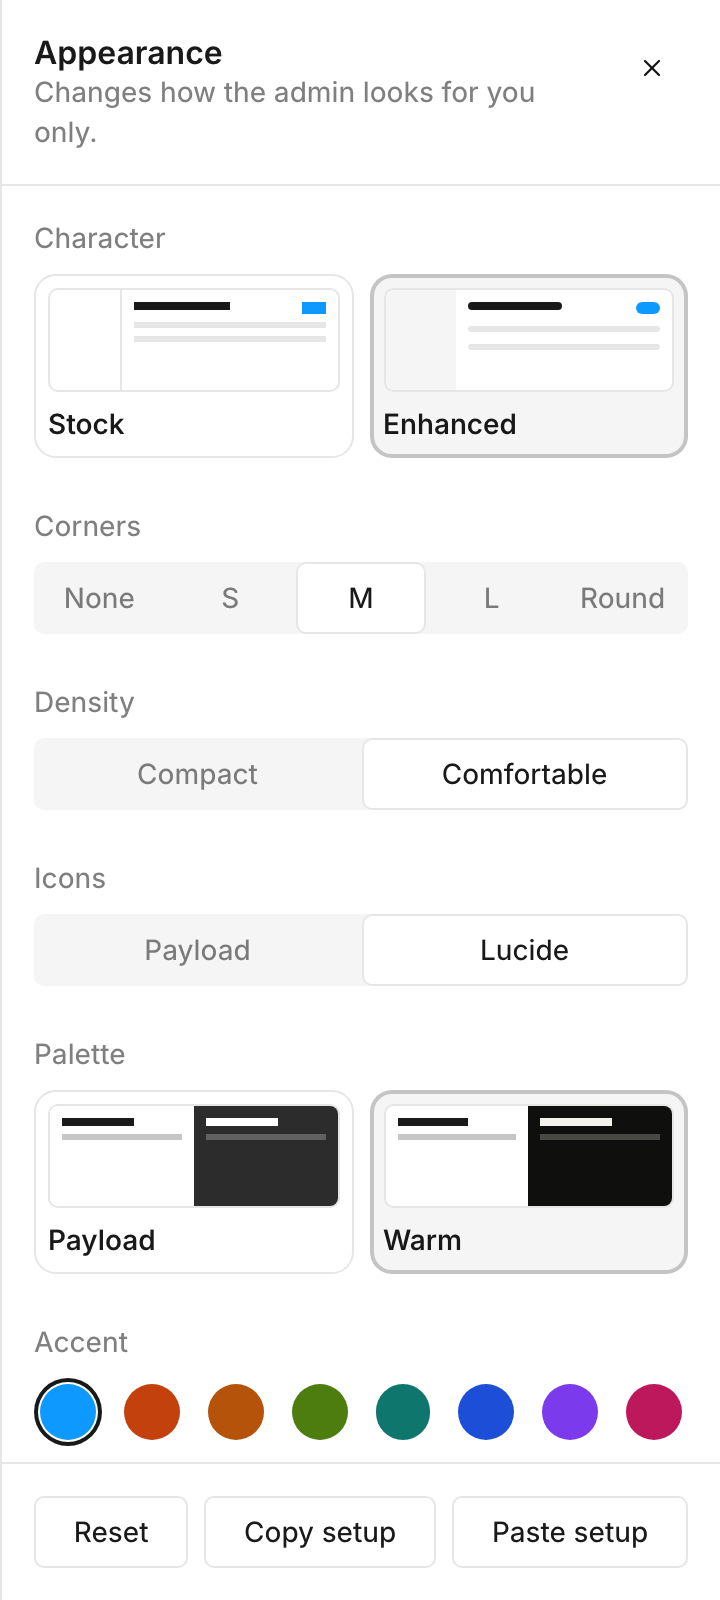
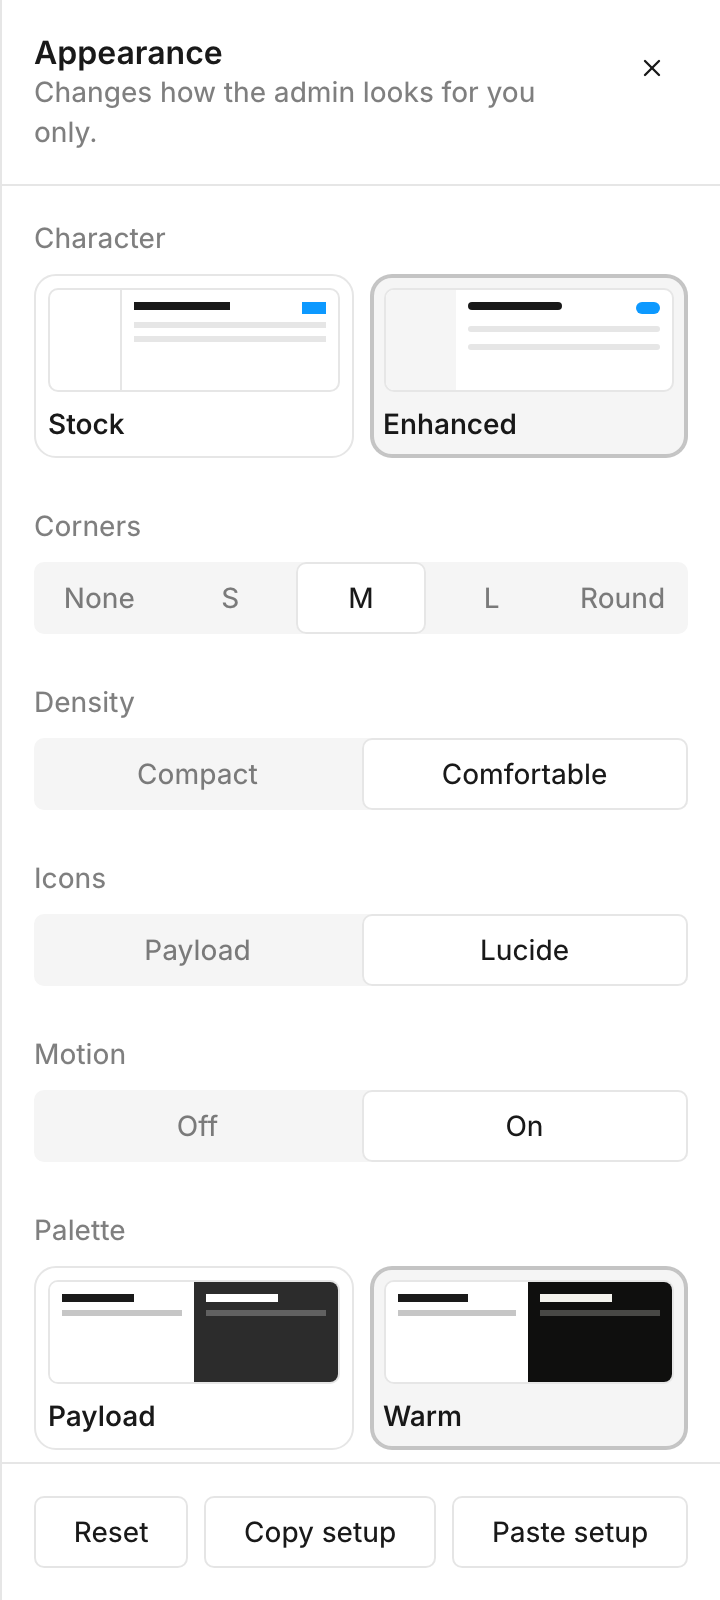
feat: add a motion option to Enhanced

Changed region(s): [[0.0306, 0.6562, 0.9778, 0.9062]]

diff --git a/apps/demo/tests/theme.e2e.spec.ts b/apps/demo/tests/theme.e2e.spec.ts
@@ -43,7 +43,7 @@ const backgrounds = (page: Page) =>
 test.describe('Logged out', () => {
   test.use({ storageState: { cookies: [], origins: [] } })
 
-  test('defaults to Enhanced and Warm with medium radius, comfortable density and Lucide icons', async ({ page }) => {
+  test('defaults to Enhanced and Warm with medium radius, comfortable density, Lucide icons and motion', async ({ page }) => {
     await page.context().addCookies([cookie('theme', 'dark')])
     await page.goto('/admin/login')
 
@@ -51,6 +51,7 @@ test.describe('Logged out', () => {
     await expect(page.locator('html')).toHaveAttribute('data-radius', 'md')
     await expect(page.locator('html')).toHaveAttribute('data-density', 'comfortable')
     await expect(page.locator('html')).toHaveAttribute('data-icons', 'lucide')
+    await expect(page.locator('html')).toHaveAttribute('data-motion', 'on')
     await expect(page.locator('html')).toHaveAttribute('data-palette', 'warm')
     await expect(page.locator('html')).toHaveCSS('background-color', 'rgb(15, 15, 14)')
   })
@@ -97,7 +98,7 @@ test.describe('Theme plugin', () => {
 
     await page.goto('/admin')
     await expect(page.locator('html')).toHaveAttribute('data-character', 'stock')
-    for (const option of ['radius', 'density', 'icons']) {
+    for (const option of ['radius', 'density', 'icons', 'motion']) {
       await expect(page.locator('html')).not.toHaveAttribute(`data-${option}`)
     }
   })
@@ -541,6 +542,61 @@ test.describe('Radius', () => {
 
     await expect(page.locator(button).first()).toHaveCSS('border-radius', '9999px')
     await expect(page.locator(field).first()).toHaveCSS('border-radius', '8px')
+  })
+})
+
+test.describe('Motion', () => {
+  const recordTransitions = async (page: Page, selector: string) => {
+    await page.addInitScript((watched) => {
+      const runs: string[] = []
+      Object.assign(window, { transitionRuns: runs })
+      document.addEventListener('transitionrun', (event) => {
+        const target = event.target as Element
+        if (target.matches(watched)) {
+          runs.push(`${target.classList[0]} ${event.propertyName}`)
+        }
+      })
+    }, selector)
+    return () => page.evaluate(() => (window as unknown as { transitionRuns: string[] }).transitionRuns.slice().sort())
+  }
+
+  const openDrawer = async (page: Page) => {
+    const transitions = await recordTransitions(page, '.drawer__blur-bg, .drawer__content')
+    await openShowcase(page)
+    await page.locator('.relationship-add-new__add-button').click()
+    await page.locator('.drawer--is-open .drawer__content').waitFor()
+    return transitions
+  }
+
+  test('drawers fade and slide in', async ({ page }) => {
+    const transitions = await openDrawer(page)
+
+    await expect.poll(transitions).toEqual(['drawer__blur-bg opacity', 'drawer__content opacity', 'drawer__content translate'])
+  })
+
+  for (const [name, setup] of [
+    ['motion is off', (page: Page) => page.context().addCookies([appearance({ options: { enhanced: { motion: 'off' } } })])],
+    ['the OS reduces motion', (page: Page) => page.emulateMedia({ reducedMotion: 'reduce' })]
+  ] as const) {
+    test(`drawers open at once when ${name}`, async ({ page }) => {
+      await setup(page)
+      const transitions = await openDrawer(page)
+
+      await expect(page.locator('.drawer__blur-bg')).toHaveCSS('transition-duration', '0s')
+      await expect(page.locator('.drawer__content')).toHaveCSS('transition-property', 'transform')
+      expect(await transitions()).toEqual([])
+    })
+  }
+
+  test('tooltips fade in and out', async ({ page }) => {
+    const transitions = await recordTransitions(page, '.tooltip')
+    await page.goto('/admin')
+
+    await page.getByRole('button', { name: 'Hide sidebar' }).hover()
+    await expect.poll(transitions).toEqual(['tooltip opacity'])
+
+    await page.mouse.move(700, 700)
+    await expect.poll(transitions).toEqual(['tooltip opacity', 'tooltip opacity', 'tooltip visibility'])
   })
 })
 

diff --git a/packages/theme/test/contract.test.ts b/packages/theme/test/contract.test.ts
@@ -31,6 +31,7 @@ const scopes: Record<string, string> = {
   'options/accent.css': 'html[data-accent]',
   'options/density.css': "html[data-density='comfortable']",
   'options/icons.css': "html[data-icons='lucide']",
+  'options/motion.css': "html[data-motion='on']",
   'options/radius.css': 'html[data-radius]',
   'palettes/warm.css': "html[data-palette='warm']",
   'styles/appearance-panel.css': '.payloadpack-appearance-panel',
@@ -156,6 +157,7 @@ const hardCodedByPayload = [
     declaration: '.popup-button { height: var(--spacer-4, 1.5rem); }'
   },
   { file: 'css/theme.css', selector: ':root', declaration: '--popup-radius: var(--radius-large);' },
+  { file: 'elements/Drawer/index.css', selector: '.drawer__content', declaration: 'transition: transform 100ms ease-out;' },
   { file: 'elements/Dialog/index.css', selector: '.dialog--small', declaration: '--dialog-width: 280px;' },
   {
     file: 'elements/Dialog/index.css',
@@ -487,9 +489,7 @@ describe('theme contract with Payload', () => {
 
   it.each(hardCodedByPayload)('Payload still hard-codes $selector ($declaration)', ({ declaration, file, selector }) => {
     const css = read(path.join(uiDist, file))
-    expect(ruleBody(css, selector), `${selector} changed upstream, re-check its fix in comfortable.css`).toContain(
-      squash(declaration)
-    )
+    expect(ruleBody(css, selector), `${selector} changed upstream, re-check its fix`).toContain(squash(declaration))
   })
 
   it('Payload still hard-codes the fixed-toolbar editor padding', () => {

diff --git a/packages/theme/src/options/motion.css b/packages/theme/src/options/motion.css
@@ -1,0 +1,62 @@
+@layer payload {
+  html[data-motion='on'] {
+    @media (prefers-reduced-motion: no-preference) {
+      /* 1. Drawers */
+      .drawer__blur-bg {
+        transition: opacity 200ms linear;
+
+        @starting-style {
+          opacity: 0;
+        }
+      }
+
+      .drawer__content {
+        transition:
+          transform 100ms ease-out,
+          opacity 200ms linear,
+          translate 200ms linear;
+
+        @starting-style {
+          opacity: 0;
+          translate: 5rem 0;
+        }
+      }
+
+      /* 2. Tooltips */
+      .tooltip {
+        transition:
+          opacity 0.2s ease-in-out,
+          visibility 0.2s ease-in-out;
+      }
+
+      .tooltip--show {
+        @starting-style {
+          opacity: 0;
+        }
+      }
+
+      /* 3. Fields */
+      .form-input,
+      .form-input-group,
+      .react-select .rs__control {
+        transition-property: border, box-shadow, background-color;
+        transition-duration: 100ms, 100ms, 500ms;
+        transition-timing-function: cubic-bezier(0, 0.2, 0.2, 1);
+      }
+
+      /* 4. Buttons */
+      .btn {
+        transition-property: border, color, background;
+        transition-duration: 100ms;
+        transition-timing-function: cubic-bezier(0, 0.2, 0.2, 1);
+      }
+
+      /* 5. Cards */
+      .card {
+        transition-property: border, box-shadow, background;
+        transition-duration: 100ms;
+        transition-timing-function: cubic-bezier(0, 0.2, 0.2, 1);
+      }
+    }
+  }
+}

diff --git a/packages/theme/src/characters/index.ts b/packages/theme/src/characters/index.ts
@@ -3,7 +3,8 @@ import { enhanced } from './enhanced/index.js'
 export const options = {
   radius: ['none', 'sm', 'md', 'lg', 'full'],
   density: ['compact', 'comfortable'],
-  icons: ['payload', 'lucide']
+  icons: ['payload', 'lucide'],
+  motion: ['off', 'on']
 } as const
 
 export type Option = keyof typeof options

diff --git a/packages/theme/src/translations.ts b/packages/theme/src/translations.ts
@@ -23,6 +23,9 @@ const payloadpack = {
   iconsPayload: 'Payload',
   invalidSetup: 'This text is not a valid setup.',
   light: 'Light',
+  motion: 'Motion',
+  motionOff: 'Off',
+  motionOn: 'On',
   palette: 'Palette',
   pasteSetup: 'Paste setup',
   radius: 'Corners',

diff --git a/packages/theme/src/styles/index.css b/packages/theme/src/styles/index.css
@@ -4,6 +4,7 @@
 @import '../options/radius.css';
 @import '../options/density.css';
 @import '../options/icons.css';
+@import '../options/motion.css';
 @import './fields/vertical-tabs.css';
 @import './fields/radio-cards.css';
 @import './fields/switch.css';

diff --git a/packages/theme/src/characters/enhanced/index.ts b/packages/theme/src/characters/enhanced/index.ts
@@ -1,3 +1,3 @@
 export const enhanced = {
-  defaults: { radius: 'md', density: 'comfortable', icons: 'lucide' }
+  defaults: { radius: 'md', density: 'comfortable', icons: 'lucide', motion: 'on' }
 } as const

diff --git a/README.md b/README.md
@@ -59,14 +59,14 @@ Click the palette button in the header to open the Appearance panel:
 <p>
   <picture>
     <source media="(prefers-color-scheme: light)" srcset="https://raw.githubusercontent.com/payloadpack/theme/main/.github/assets/appearance-light.png">
-    <img width="360" alt="The Appearance panel with Stock and Enhanced cards, Corners, Density and Icons controls, Payload and Warm palette cards and accent swatches" src="https://raw.githubusercontent.com/payloadpack/theme/main/.github/assets/appearance-dark.png">
+    <img width="360" alt="The Appearance panel with Stock and Enhanced cards, Corners, Density, Icons and Motion controls, Payload and Warm palette cards and accent swatches" src="https://raw.githubusercontent.com/payloadpack/theme/main/.github/assets/appearance-dark.png">
   </picture>
 </p>
 
 The panel opens as a sheet on the right and fills the screen on phones. Every change applies at once, so there is no Save button. Escape or a click outside closes it.
 
 - **Character** is how the whole admin panel is laid out and behaves. Stock is Payload's own layout and has no options. Enhanced touches up Payload's own design without changing its structure, and is the default. The section is hidden when only one character is allowed.
-- **Options** belong to a character. Enhanced has Corners, Density and Icons. Each character keeps its own values, so switching to Stock and back keeps them.
+- **Options** belong to a character. Enhanced has Corners, Density, Icons and Motion. Each character keeps its own values, so switching to Stock and back keeps them.
 - **Palette** is the colors, in a light and a dark version. Payload is Payload's own colors. Warm, the default, is Payload's light colors and a warm near-black dark mode. Every palette works with every character. The section is hidden when only one palette is allowed.
 - **Accent** is the color of primary buttons, links and selected items: one of eight swatches or any `#rrggbb` color. Each palette keeps its own accent. Payload's blue, `#0d99ff`, keeps Payload's own shades, and any other accent gets matching shades for light and dark mode.
 - **Color mode** is Payload's own light and dark setting, the same one as Admin Theme on the account page. It is hidden when `admin.theme` is `'light'` or `'dark'`.
@@ -78,12 +78,14 @@ The panel opens as a sheet on the right and fills the screen on phones. Every ch
 | Corners | None, S, M, L, Round | M                |
 | Density | Compact, Comfortable | Comfortable      |
 | Icons   | Payload, Lucide      | Lucide           |
+| Motion  | Off, On              | On               |
 
 - **Enhanced** draws a 2px focus ring, rounds popups and toasts a little more, lifts the date picker and toasts like menus, and insets the sidebar tabs.
 - **Warm** gives dark mode a warm near-black palette and swaps Payload's blue selection for neutral greys. In both modes it draws the focus ring in the text color and fills checked checkboxes and selected radios with the text color instead of the accent.
 - **Corners** scales Payload's own corner sizes. M keeps them as they are, None squares every corner, S and L make them smaller or larger, and Round is L with pill-shaped buttons.
 - **Comfortable** sets 14px body text, 36px fields and buttons, 32px menu items and 18px checkboxes and radios, gives dialogs more room, and fixes Payload components that hard-code their sizes.
 - **Lucide** replaces Payload's icons with [Lucide](https://lucide.dev) and adds icons to the nav and the document menu. The icons are bundled, so nothing loads from a CDN.
+- **Motion** brings back the transitions Payload 3 had: drawers fade and slide in, tooltips fade, and fields, buttons and cards ease between states. It stays off when the operating system asks for reduced motion.
 
 A signed-in editor's setup is saved in Payload's own preferences, so it follows them to every browser. It is mirrored in one cookie, `<cookiePrefix>-appearance`, next to Payload's own theme cookie, which the server uses on the login page and until a setup is saved. The server renders the setup, so pages never flash.
 
@@ -114,16 +116,16 @@ themePlugin({
 })
 ```
 
-| Key                  | Default                                                                   | Description                                                                                                                                                                                                                                                       |
-| -------------------- | ------------------------------------------------------------------------- | ----------------------------------------------------------------------------------------------------------------------------------------------------------------------------------------------------------------------------------------------------------------- |
-| `character`          | `'enhanced'`                                                              | The character everyone starts with. It must be one of `characters`.                                                                                                                                                                                               |
-| `characters`         | `['stock', 'enhanced']`                                                   | The characters editors may pick. An editor whose character is no longer allowed gets `character`.                                                                                                                                                                 |
-| `options`            | `{ enhanced: { radius: 'md', density: 'comfortable', icons: 'lucide' } }` | Option values per character, which editors start from and Reset returns to. Each character takes only its own options, so a typo is a type error. Stock has no options and no key.                                                                                |
-| `palette`            | `'warm'`                                                                  | The palette everyone starts with. It must be one of `palettes`.                                                                                                                                                                                                   |
-| `palettes`           | `['payload', 'warm']`                                                     | The palettes editors may pick. An editor whose palette is no longer allowed gets `palette`.                                                                                                                                                                       |
-| `accent`             | `{ payload: '#0d99ff', warm: '#0d99ff' }`                                 | The accent per palette, as `#rrggbb`, which editors start from and Reset returns to.                                                                                                                                                                              |
-| `panel`              | `true`                                                                    | Who gets the Appearance panel: `true`, `false` or `({ user }) => boolean`. When it resolves to `false`, the editor gets no palette button and their saved setup is ignored. Signed-out views have no user, so there the cookie applies unless `panel` is `false`. |
-| `codeEditorFontSize` | `13`                                                                      | Font size for code editors in Comfortable density. Payload's default is 11. Fields that set `admin.editorOptions.fontSize` keep their own size. `false` turns it off.                                                                                             |
+| Key                  | Default                                                                                 | Description                                                                                                                                                                                                                                                       |
+| -------------------- | --------------------------------------------------------------------------------------- | ----------------------------------------------------------------------------------------------------------------------------------------------------------------------------------------------------------------------------------------------------------------- |
+| `character`          | `'enhanced'`                                                                            | The character everyone starts with. It must be one of `characters`.                                                                                                                                                                                               |
+| `characters`         | `['stock', 'enhanced']`                                                                 | The characters editors may pick. An editor whose character is no longer allowed gets `character`.                                                                                                                                                                 |
+| `options`            | `{ enhanced: { radius: 'md', density: 'comfortable', icons: 'lucide', motion: 'on' } }` | Option values per character, which editors start from and Reset returns to. Each character takes only its own options, so a typo is a type error. Stock has no options and no key.                                                                                |
+| `palette`            | `'warm'`                                                                                | The palette everyone starts with. It must be one of `palettes`.                                                                                                                                                                                                   |
+| `palettes`           | `['payload', 'warm']`                                                                   | The palettes editors may pick. An editor whose palette is no longer allowed gets `palette`.                                                                                                                                                                       |
+| `accent`             | `{ payload: '#0d99ff', warm: '#0d99ff' }`                                               | The accent per palette, as `#rrggbb`, which editors start from and Reset returns to.                                                                                                                                                                              |
+| `panel`              | `true`                                                                                  | Who gets the Appearance panel: `true`, `false` or `({ user }) => boolean`. When it resolves to `false`, the editor gets no palette button and their saved setup is ignored. Signed-out views have no user, so there the cookie applies unless `panel` is `false`. |
+| `codeEditorFontSize` | `13`                                                                                    | Font size for code editors in Comfortable density. Payload's default is 11. Fields that set `admin.editorOptions.fontSize` keep their own size. `false` turns it off.                                                                                             |
 
 A setup from Copy setup has the same shape, so pasting it into `themePlugin()` makes it everyone's default:
 
